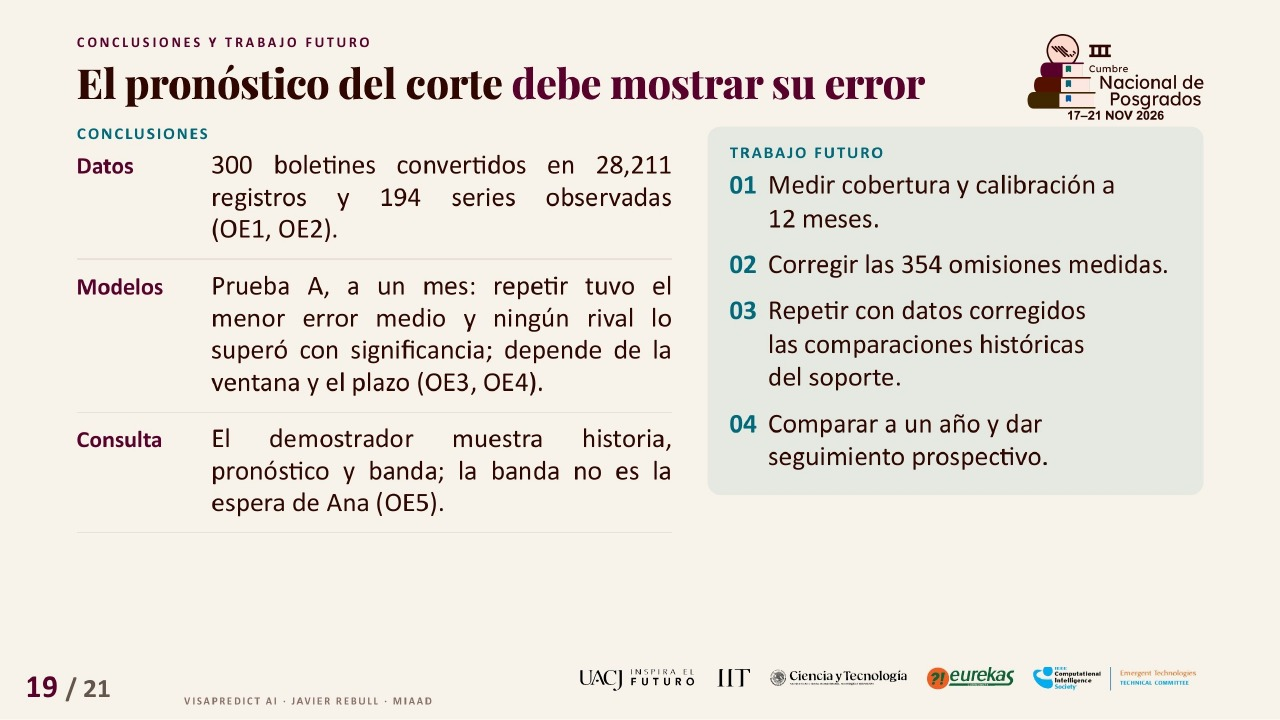
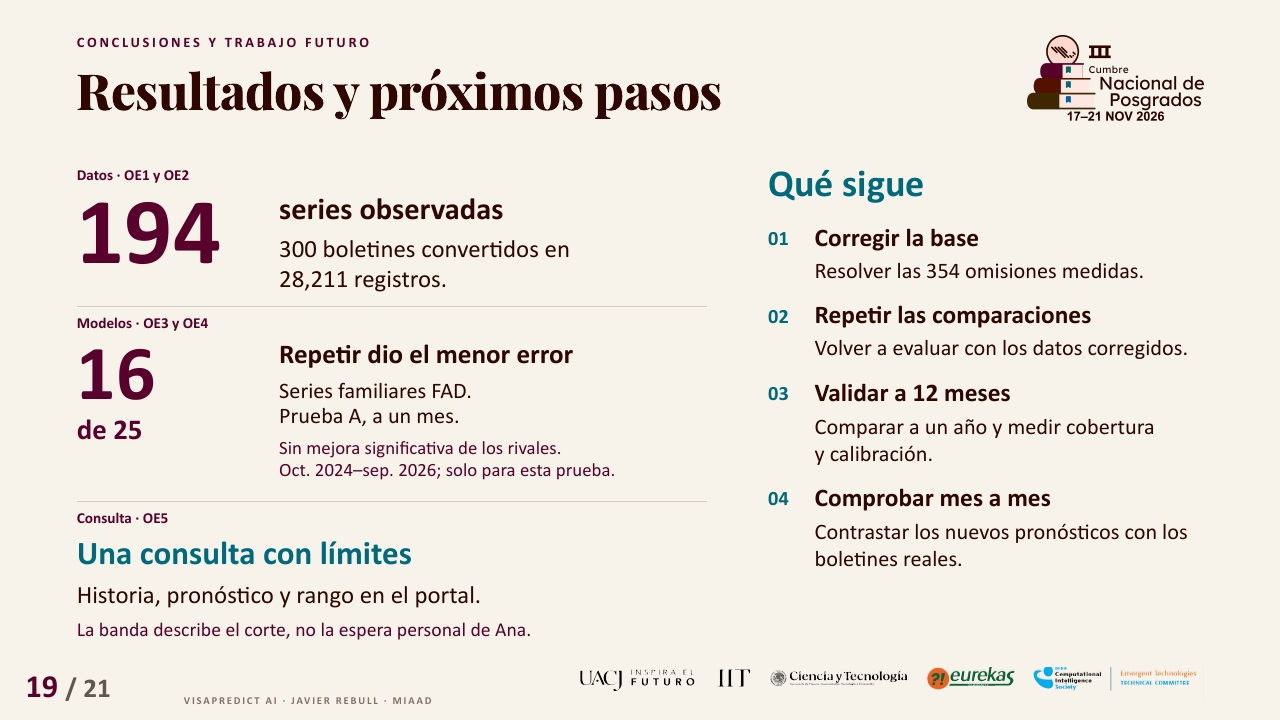
Redesign presentation closing slide with clear results and next steps

diff --git a/docs/guion-cumbre.md b/docs/guion-cumbre.md
@@ -1,5 +1,7 @@
 # Guion de la Cumbre · ruta /guion/
 
+Revisión vigente: MINI v14. Rediseña únicamente la lámina 19 («Resultados y próximos pasos»): cifras principales a la izquierda y secuencia de trabajo futuro a la derecha, con alineación izquierda. Conserva las 21 notas habladas y las otras 20 láminas. Fuentes, PDF vectorial y PPTX en `Presentaciones/2026-11-16_B3_MINI_v14/`; el PDF se compone desde las fuentes vectoriales, sin rasterizar páginas. La imagen web 19 deriva de ese PDF. La descripción v13 siguiente conserva el antecedente de la fila restaurada.
+
 Página de lectura y ensayo, sin añadirla al menú público. Usa el layout raíz y las fuentes/colores existentes; `robots` marca noindex/nofollow, lo que no constituye control de acceso. No incorpora servicios, dependencias ni tracking nuevos.
 
 Contenido vigente: `app/guion/guion-data.json`, sincronizado con `Presentaciones/2026-11-15_B3_MINI_v13/notas.json`. V13 restaura la fila de personas original (versión completa v37, lámina8) en la lámina5 de la mini, con Ana en azul y la prioridad posterior al corte. Sustituye la explicación de los dos relojes; conserva21láminas, las dos tablas de4, visita de3, objetivos, arquitectura, MLOps y resultados. Sólo cambia la imagen05, su título, guion y fuente; las otras20láminas y notas del PPTX son exactas a v12r1. Generación de esta revisión en `preparar.py`/`generar.py`/`render_fila.cjs`; validación en `validar.py`. Los párrafos y `liveVisit.paragraphs` se dicen en voz alta; `cue` y `sourceNote` no. No usar generadores anteriores para sobrescribir esta revisión.
